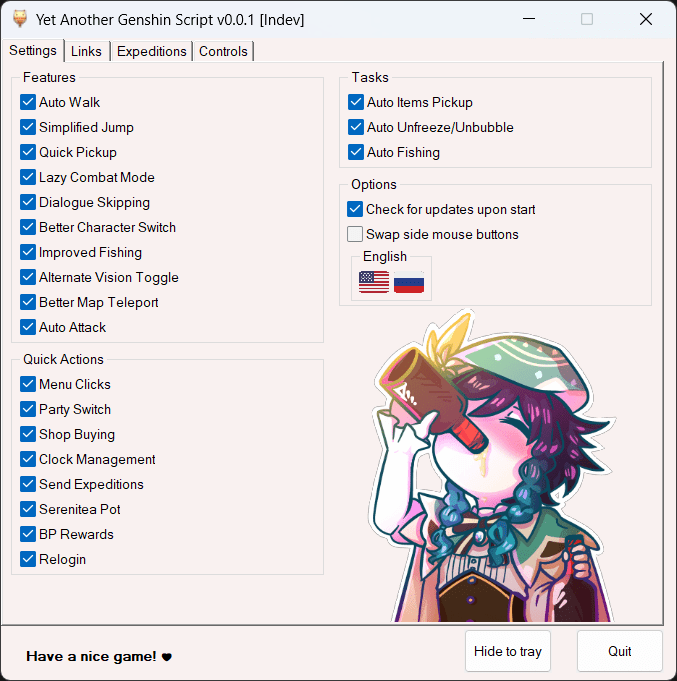
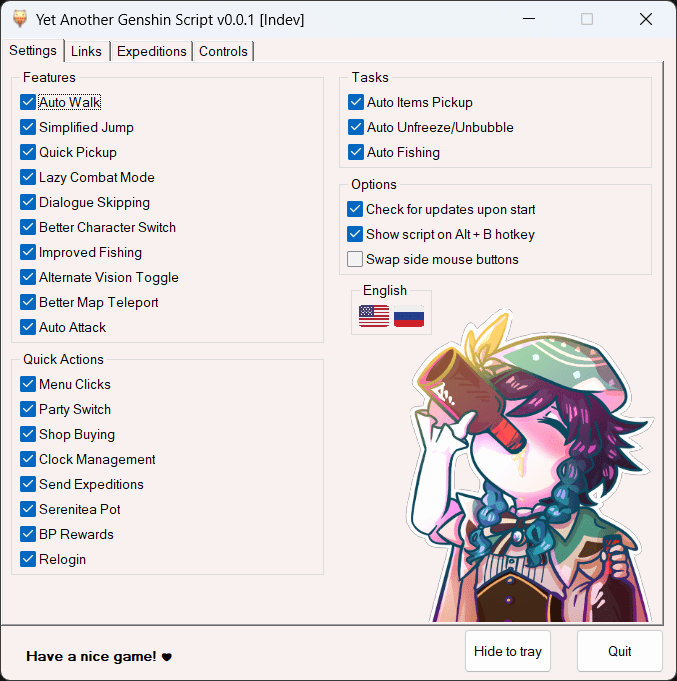
Implement bringing script on top by pressing Alt + B
Also fixup menu actions because I forgot to include Global :f

Changed region(s): [[0.4963, 0.3084, 0.9616, 0.9251], [0.5273, 0.7093, 0.5583, 0.7709]]

diff --git a/README.md b/README.md
@@ -31,7 +31,8 @@ There are no plans to adapt it to other resolutions in the near future.
 		- (!) Keep in mind that development builds do not support auto updating.
 2. Configure the settings in the GUI if needed.
 3. Run the game and enjoy.
-4. Press `End` in case of an emergency to force stop the script.
+4. Press `Alt + B` to bring the script on top if needed.
+5. Press `End` in case of an emergency to force stop the script.
 
 **Note:** in order to work properly, the script must be able to run with administrator privileges. This is due to the game not handling AHK's keyboard and mouse inputs properly otherwise.
 
